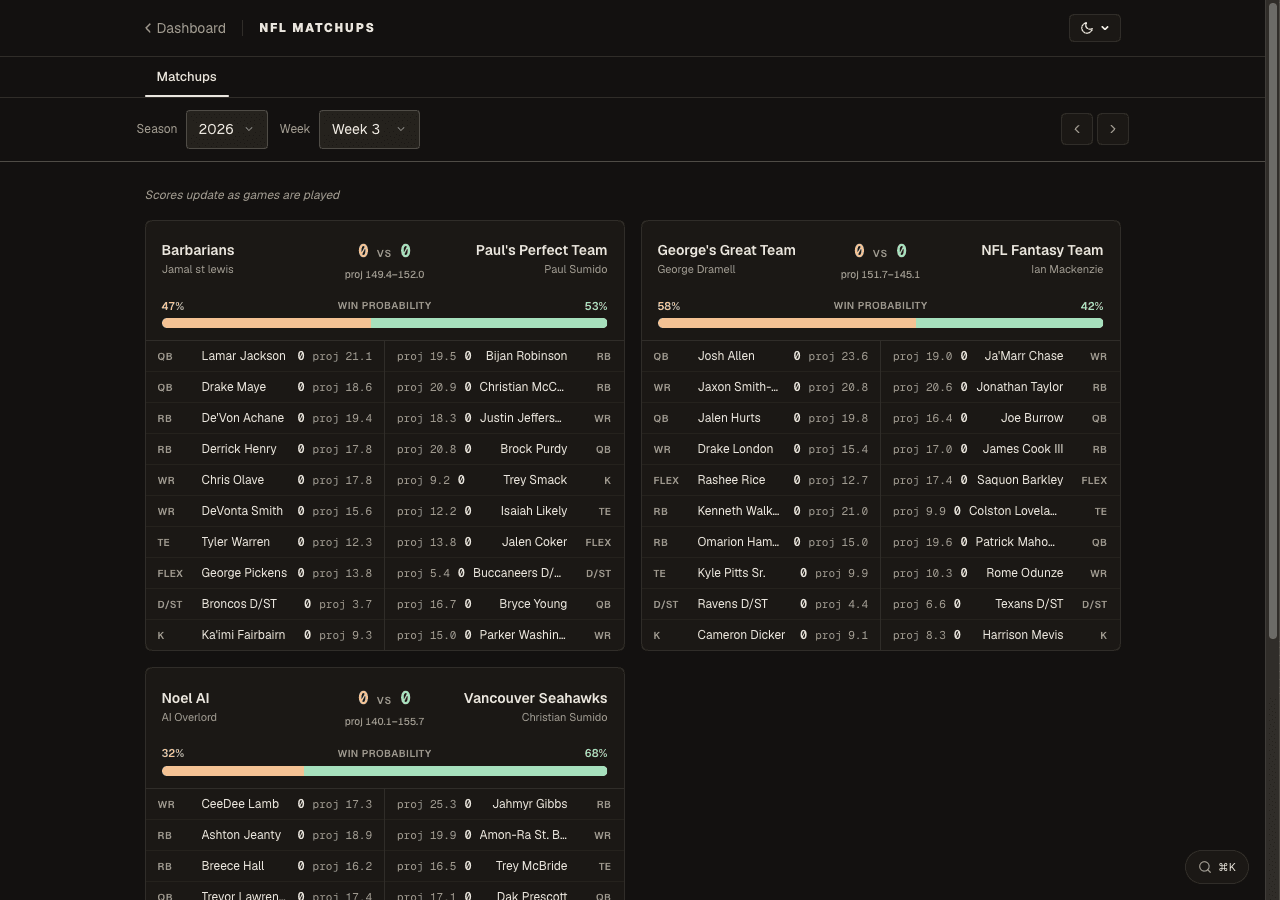
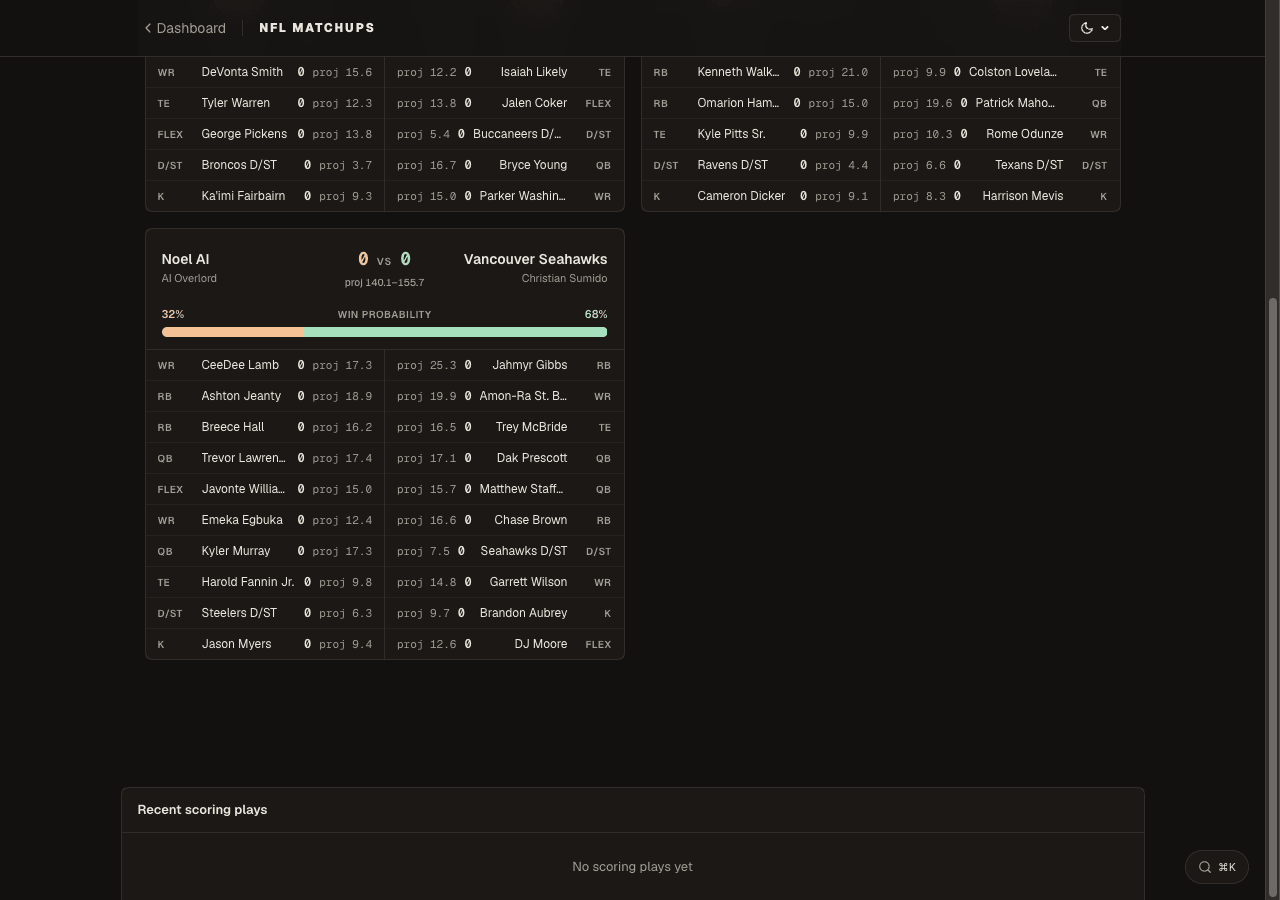
Pin the plays ticker to the viewport so it's always visible

diff --git a/src/app/fantasy/nfl/matchups/PlaysTicker.tsx b/src/app/fantasy/nfl/matchups/PlaysTicker.tsx
@@ -92,8 +92,11 @@ export default function PlaysTicker({
   const attributed = query.data ? attributePlays(query.data.plays, rosterNames(matchups)) : [];
 
   return (
-    <section className="mt-6 overflow-hidden rounded-xl border border-border bg-surface">
-      <h2 className="border-b border-border px-4 py-3 text-[13px] font-semibold text-foreground">
+    <section
+      aria-label="Recent scoring plays"
+      className="fixed inset-x-0 bottom-0 z-40 mx-auto max-h-[40vh] w-full max-w-5xl overflow-y-auto border-t border-border bg-surface shadow-[0_-4px_16px_rgba(0,0,0,0.08)] sm:max-h-56 sm:rounded-t-xl sm:border-x"
+    >
+      <h2 className="sticky top-0 border-b border-border bg-surface px-4 py-3 text-[13px] font-semibold text-foreground">
         Recent scoring plays
       </h2>
       {query.isLoading && (

diff --git a/src/app/fantasy/nfl/matchups/MatchupContent.tsx b/src/app/fantasy/nfl/matchups/MatchupContent.tsx
@@ -324,7 +324,12 @@ export default function MatchupContent() {
         </div>
       </FilterBar>
 
-      <main className="mx-auto max-w-5xl px-4 sm:px-6 py-6" aria-live="polite">
+      <main
+        className={`mx-auto max-w-5xl px-4 sm:px-6 py-6 ${
+          matchups.length > 0 ? "pb-[42vh] sm:pb-60" : ""
+        }`}
+        aria-live="polite"
+      >
         <h1 className="sr-only">NFL Fantasy Matchups</h1>
 
         {query.isLoading && (
